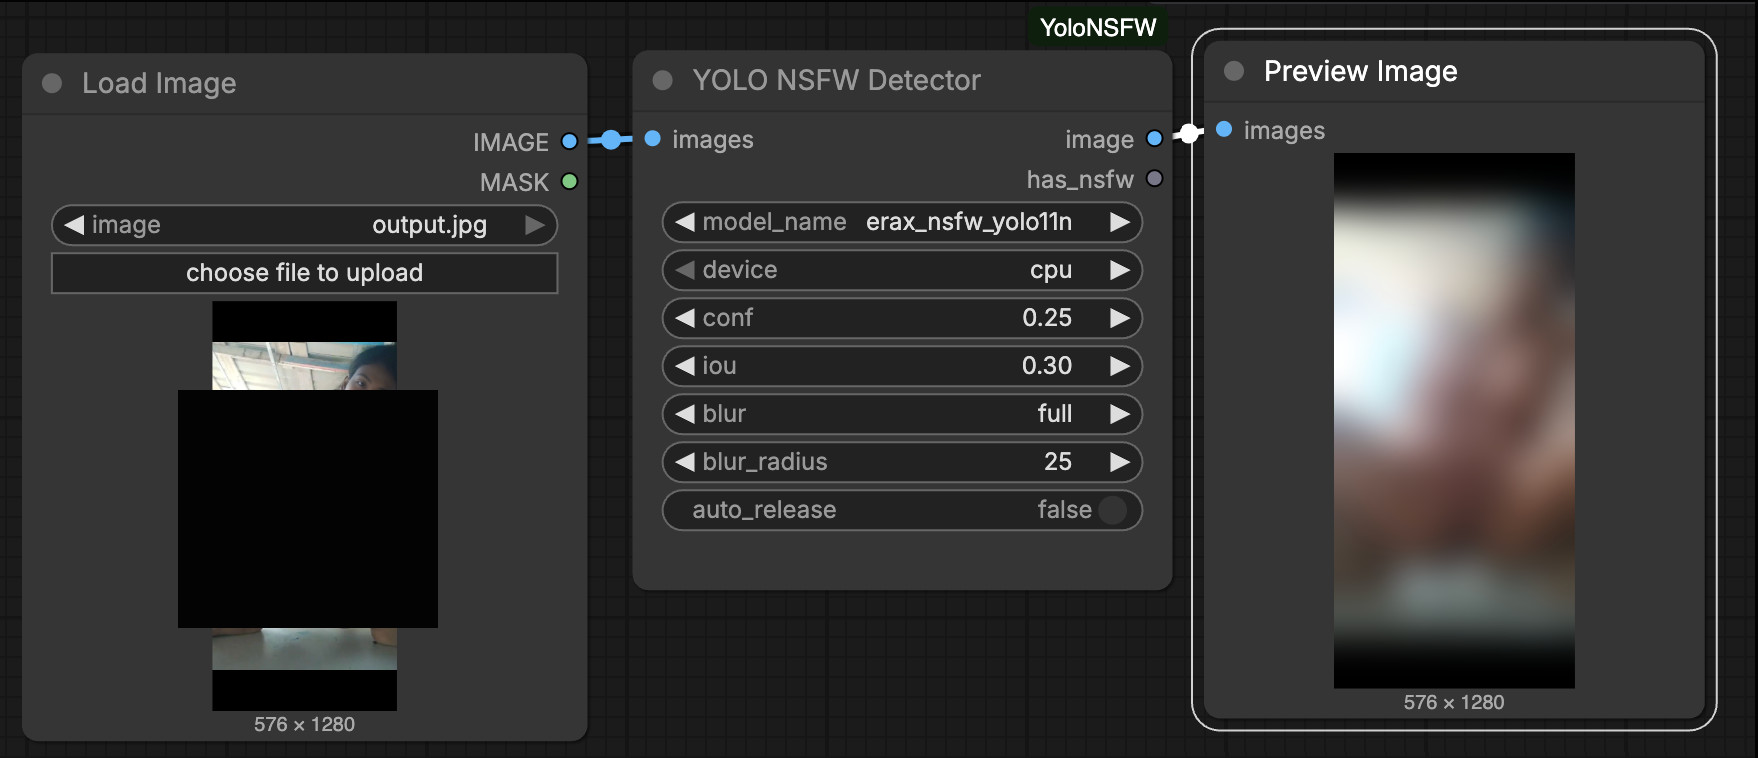
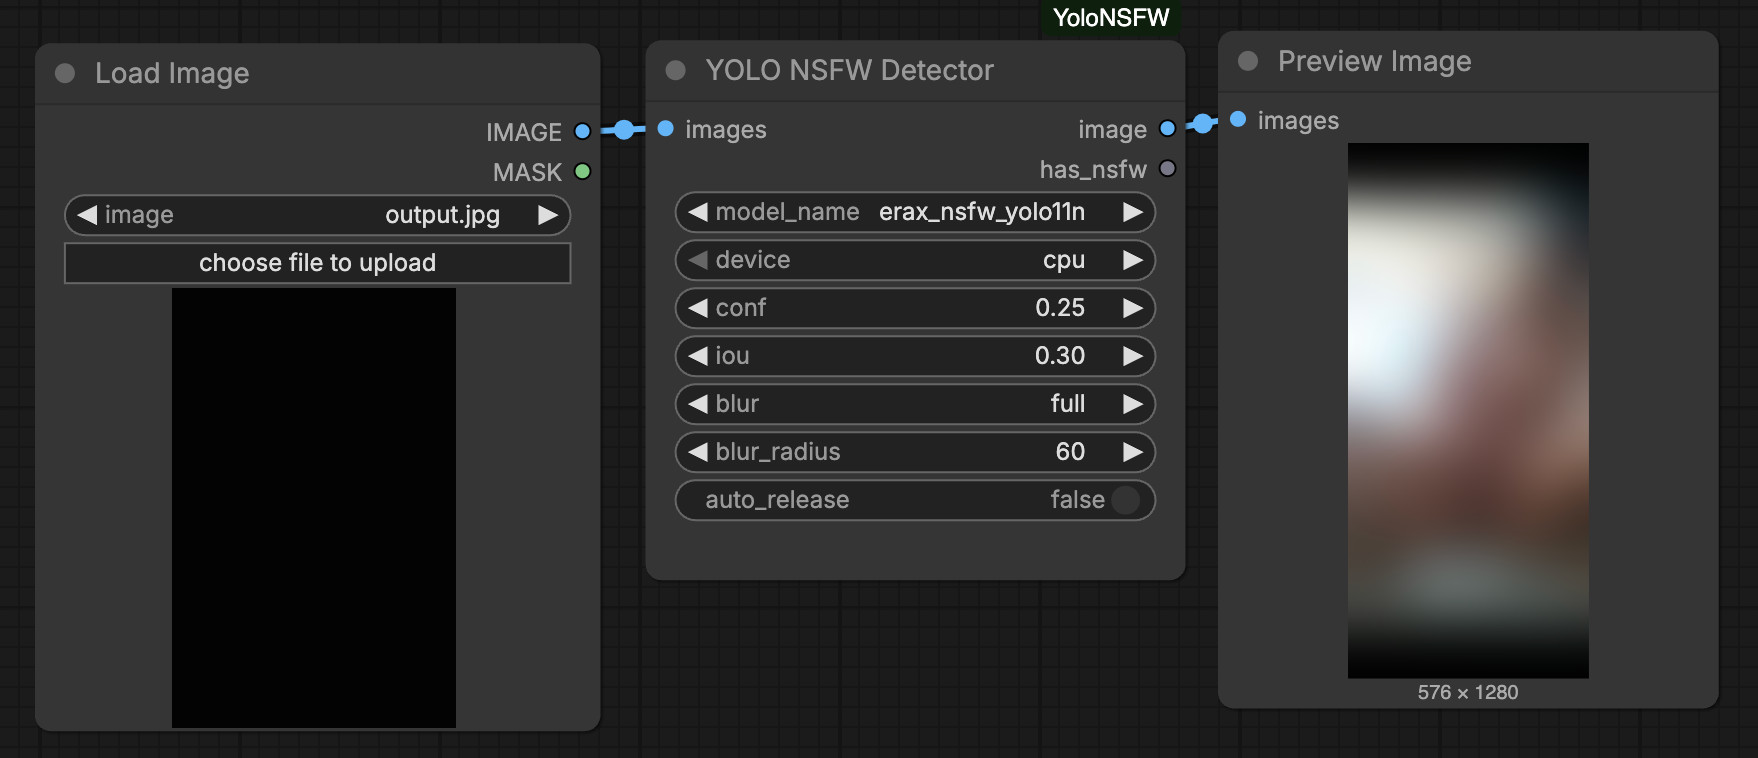
docs: fix screenshot.jpg

Changed region(s): [[0.0, 0.0, 0.9829, 1.0], [0.8601, 0.3641, 0.9215, 0.6675], [0.7372, 0.7586, 0.8294, 0.8496]]

diff --git a/README.md b/README.md
@@ -6,22 +6,12 @@ A ComfyUI custom node for NSFW (Not Safe For Work) content detection using YOLO 
 
 This node uses the Erax AI [erax-ai/EraX-NSFW-V1.0](https://huggingface.co/erax-ai/EraX-NSFW-V1.0) model.
 
-## Features
-
-- **NSFW Detection**: Detect adult content using EraX YOLO11 NSFW detection models
-- **Auto Download**: Automatically download models from HuggingFace on first use
-- **Multiple Models**: Choose from 3 model sizes (n/s/m) for speed/accuracy trade-off
-- **Flexible Blur**: Blur modes - full image blur, or partial blur on detected regions
-- **Configurable Thresholds**: Adjust confidence and IoU thresholds
-- **Auto Release**: Option to unload model after detection to free memory
-
 ## Installation
 
 ### Prerequisites
 
 - Python 3.10+
 - ComfyUI installed
-- CUDA-capable GPU (recommended) or CPU
 
 ### Install the Node
 
@@ -39,9 +29,11 @@ Restart ComfyUI
 Models are automatically downloaded on first use and stored in:
 ```
 ComfyUI/models/nsfw/
-├── erax_nsfw_yolo11n.pt  # Lightweight, fastest
-├── erax_nsfw_yolo11s.pt  # Balanced
-└── erax_nsfw_yolo11m.pt  # Best accuracy, slower
+├── models/
+│   └── nsfw/   
+│       ├── erax_nsfw_yolo11n.pt  # Lightweight, fastest
+│       ├── erax_nsfw_yolo11s.pt  # Balanced
+│       └── erax_nsfw_yolo11m.pt  # Best accuracy, slower
 ```
 
 Source: [erax-ai/EraX-NSFW-V1.0](https://huggingface.co/erax-ai/EraX-NSFW-V1.0)
@@ -50,42 +42,14 @@ Or you can manually download from the link above and place them in the directory
 
 ## Usage
 
-### Node: YOLO NSFW Detector
-
-A single node that handles model loading, detection, and image processing.
-
-#### Inputs
-
-| Parameter | Type | Default | Description |
-|-----------|------|---------|-------------|
-| `images` | IMAGE | - | Input image(s) to detect |
-| `model_name` | STRING | erax_nsfw_yolo11n | Model to use: `erax_nsfw_yolo11n` (fast), `erax_nsfw_yolo11s` (balanced), `erax_nsfw_yolo11m` (accurate) |
-| `device` | STRING | cpu | Device for inference: `cpu`, `cuda`, or `mps` (Apple Silicon) |
-| `conf` | FLOAT | 0.25 | Confidence threshold (0.0 - 1.0), higher = stricter |
-| `iou` | FLOAT | 0.3 | IoU threshold for NMS (0.0 - 1.0) |
-| `blur` | STRING | full | Blur mode: `none` (no blur), `full` (blur entire image), `partial` (blur detected regions only) |
-| `blur_radius` | INT | 35 | Gaussian blur radius (1 - 100), only used when blur is not `none` |
-| `auto_release` | BOOLEAN | false | Unload model after detection to free memory |
-
-#### Outputs
-
-| Output | Type | Description |
-|--------|------|-------------|
-| `image` | IMAGE | Processed image (with blur applied if enabled) |
-| `has_nsfw` | BOOLEAN | True if NSFW content was detected, False otherwise |
-
 ### Blur Modes
 
 - **none**: Returns original image without any blur
 - **full**: Applies Gaussian blur to the entire image
 - **partial**: Applies Gaussian blur only to detected NSFW regions (if any)
 
-![Screenshot](docs/screenshot.png)
+![Screenshot](docs/screenshot.jpg)
 
 ## License
 
 MIT License
-
-## Disclaimer
-
-This tool is for content moderation purposes only. Users are responsible for complying with applicable laws and regulations.

diff --git a/README_zh.md b/README_zh.md
@@ -6,14 +6,6 @@
 
 本节点使用 Erax AI [erax-ai/EraX-NSFW-V1.0](https://huggingface.co/erax-ai/EraX-NSFW-V1.0) 模型。
 
-## 特性
-
-- **NSFW 检测**：使用 EraX YOLO11 NSFW 检测模型
-- **自动下载**：首次使用时自动从 HuggingFace 下载模型
-- **多模型选择**：3 种模型尺寸（n/s/m）供速度和精度权衡
-- **灵活模糊**：模糊模式 - 全图模糊、仅检测区域模糊
-- **可配置阈值**：调整置信度和 IoU 阈值
-- **自动释放**：检测后卸载模型以释放内存
 
 ## 安装
 
@@ -21,7 +13,6 @@
 
 - Python 3.10+
 - 已安装 ComfyUI
-- CUDA 显卡（推荐）或 CPU
 
 ### 安装节点
 
@@ -40,9 +31,11 @@ pip install -r requirements.txt
 模型会在首次使用时自动下载并存储在：
 ```
 ComfyUI/models/nsfw/
-├── erax_nsfw_yolo11n.pt  # 轻量级，最快
-├── erax_nsfw_yolo11s.pt  # 平衡型
-└── erax_nsfw_yolo11m.pt  # 精度最高，较慢
+├── models/
+│   └── nsfw/   
+│       ├── erax_nsfw_yolo11n.pt  # 轻量级，最快
+│       ├── erax_nsfw_yolo11s.pt  # 平衡型
+│       └── erax_nsfw_yolo11m.pt  # 精度最高，较慢
 ```
 
 来源：[erax-ai/EraX-NSFW-V1.0](https://huggingface.co/erax-ai/EraX-NSFW-V1.0)
@@ -51,42 +44,14 @@ ComfyUI/models/nsfw/
 
 ## 使用说明
 
-### 节点：YOLO NSFW Detector
-
-单个节点处理模型加载、检测和图像处理。
-
-#### 输入参数
-
-| 参数 | 类型 | 默认值 | 说明 |
-|-----------|------|---------|-------------|
-| `images` | IMAGE | - | 待检测的输入图像 |
-| `model_name` | STRING | erax_nsfw_yolo11n | 模型选择：`erax_nsfw_yolo11n` (快), `erax_nsfw_yolo11s` (平衡), `erax_nsfw_yolo11m` (精确) |
-| `device` | STRING | cpu | 推理设备：`cpu`, `cuda`, 或 `mps` (Apple Silicon) |
-| `conf` | FLOAT | 0.25 | 置信度阈值 (0.0 - 1.0)，越高越严格 |
-| `iou` | FLOAT | 0.3 | NMS IoU 阈值 (0.0 - 1.0) |
-| `blur` | STRING | full | 模糊模式：`none` (无模糊), `full` (全图模糊), `partial` (仅检测区域模糊) |
-| `blur_radius` | INT | 35 | 高斯模糊半径 (1 - 100)，仅在 blur 不为 `none` 时有效 |
-| `auto_release` | BOOLEAN | false | 检测后卸载模型释放内存 |
-
-#### 输出
-
-| 输出 | 类型 | 说明 |
-|--------|------|-------------|
-| `image` | IMAGE | 处理后的图像（如启用模糊则包含模糊效果） |
-| `has_nsfw` | BOOLEAN | 检测到 NSFW 内容为 True，否则为 False |
-
 ### 模糊模式
 
 - **none**：返回原图，不做任何模糊处理
 - **full**：对整个图像应用高斯模糊
 - **partial**：仅对检测到的 NSFW 区域应用高斯模糊
 
-![节点截图](docs/screenshot.png)
+![节点截图](docs/screenshot.jpg)
 
 ## 许可证
 
 MIT License
-
-## 免责声明
-
-本工具仅用于内容审核目的。用户需自行遵守适用的法律法规。
